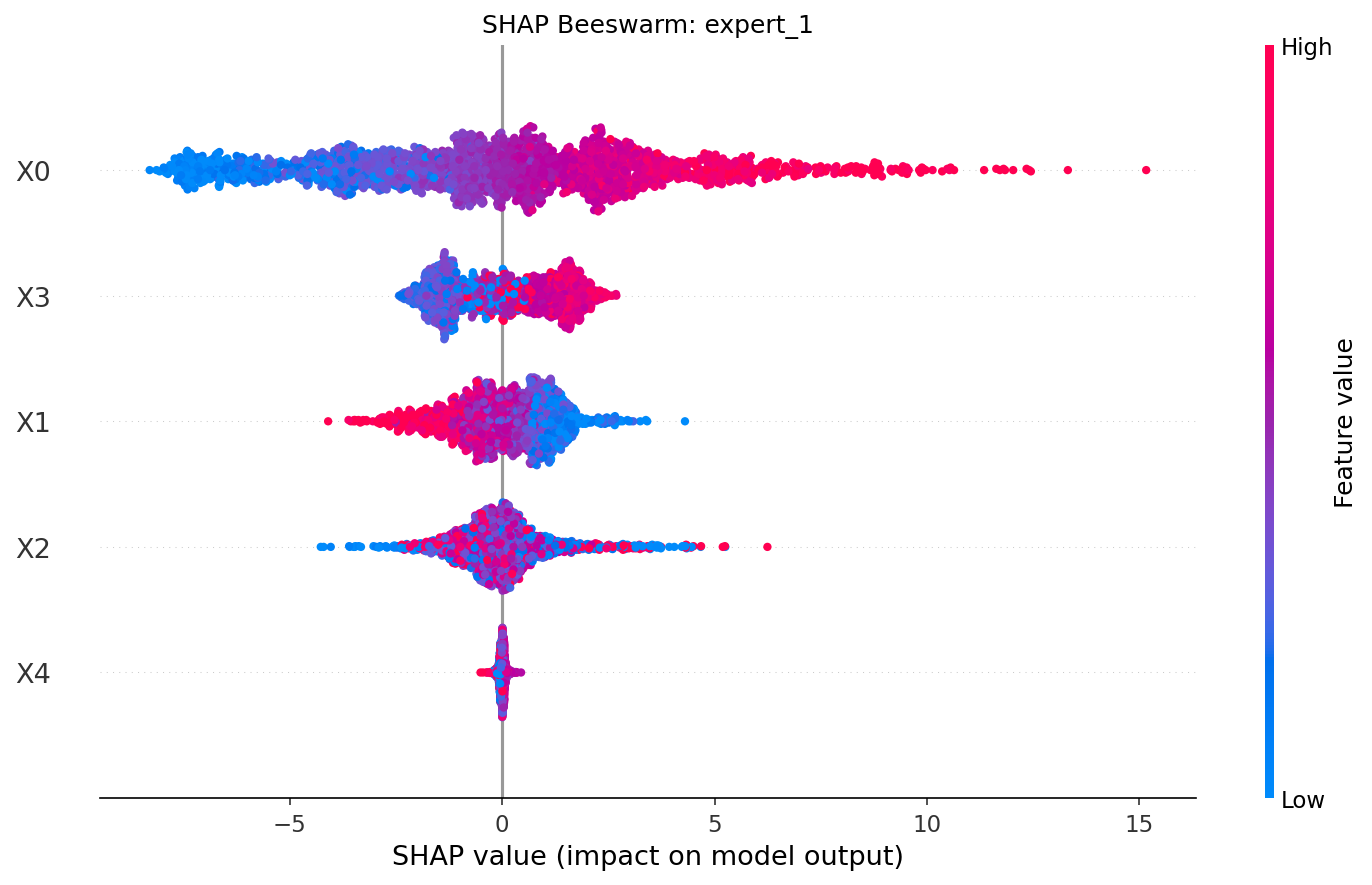
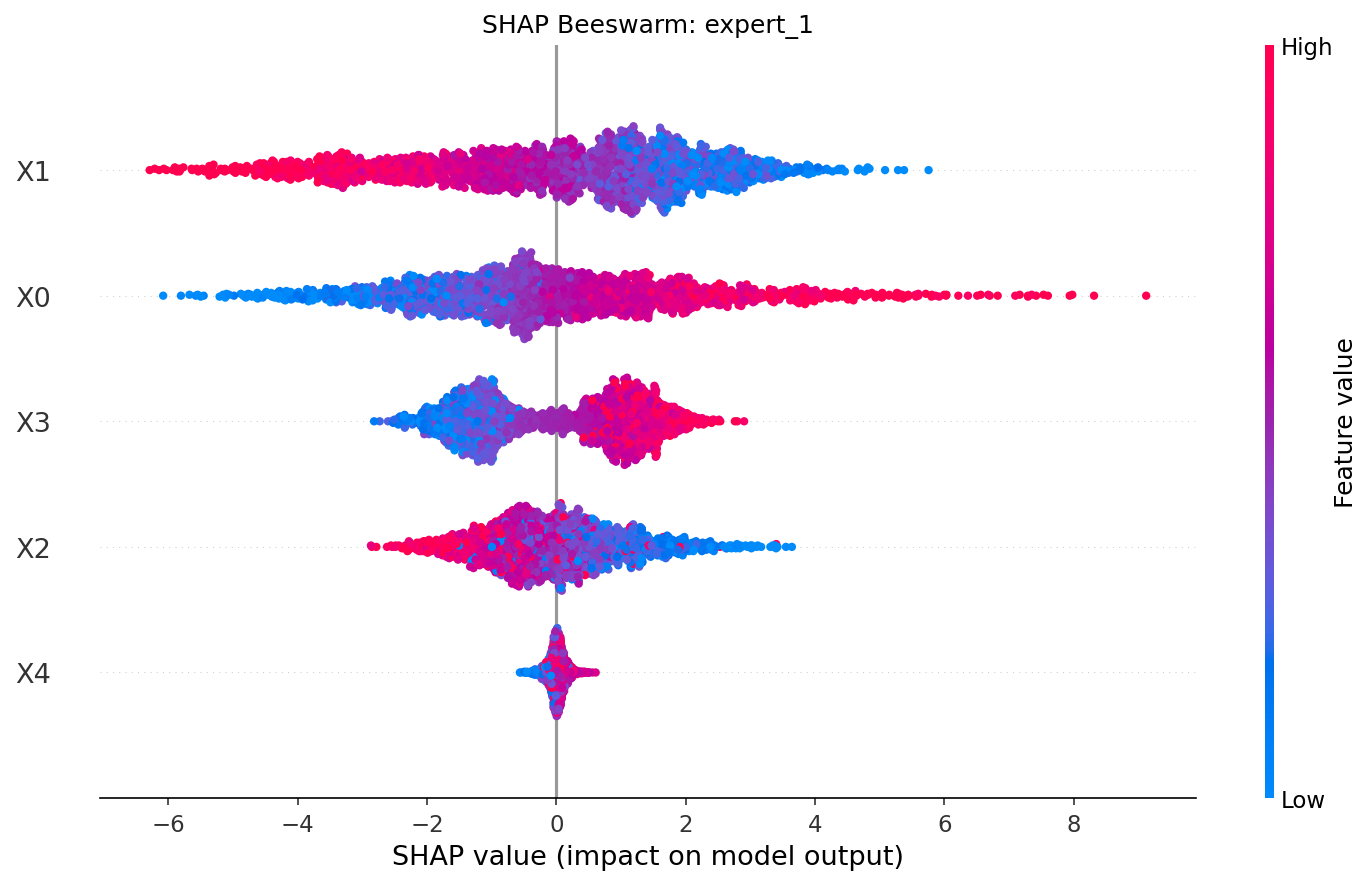
style: Change combined SHAP plot from bar chart to beeswarm dots

diff --git a/examples/benchmark.py b/examples/benchmark.py
@@ -758,10 +758,9 @@ def create_shap_visualization(
         plt.close("all")
         print(f"[SHAP] Saved: {output_path}")
 
-    # Create combined figure showing mean absolute SHAP values (bar chart)
-    # Note: shap.summary_plot doesn't work well with subplots, so we use bar charts
+    # Create combined figure showing SHAP beeswarm (dot) plots for each component
     n_components = 1 + num_experts  # gate + experts
-    fig, axes = plt.subplots(1, n_components, figsize=(5 * n_components, 5))
+    fig, axes = plt.subplots(1, n_components, figsize=(6 * n_components, 6))
 
     component_names = ["gate"] + [f"expert_{k}" for k in range(num_experts)]
 
@@ -769,22 +768,53 @@ def create_shap_visualization(
         shap_vals = shap_values_dict[name]
         mean_abs_shap = np.abs(shap_vals).mean(axis=0)
 
-        # Sort by importance
+        # Sort features by importance
         sorted_idx = np.argsort(mean_abs_shap)[::-1]
         sorted_names = [feature_names[i] for i in sorted_idx]
-        sorted_values = mean_abs_shap[sorted_idx]
 
         ax = axes[idx]
-        y_pos = np.arange(len(feature_names))
-        ax.barh(y_pos, sorted_values, color="steelblue", alpha=0.7)
-        ax.set_yticks(y_pos)
+
+        # Create beeswarm-style dot plot
+        n_features = len(feature_names)
+        for feat_rank, feat_idx in enumerate(sorted_idx):
+            shap_feature = shap_vals[:, feat_idx]
+            feature_values = X[:, feat_idx]
+
+            # Normalize feature values for coloring (0 to 1)
+            fv_min, fv_max = feature_values.min(), feature_values.max()
+            if fv_max - fv_min > 1e-10:
+                fv_norm = (feature_values - fv_min) / (fv_max - fv_min)
+            else:
+                fv_norm = np.zeros_like(feature_values)
+
+            # Add jitter to y-axis to create beeswarm effect
+            y_jitter = np.random.normal(0, 0.15, size=len(shap_feature))
+            y_pos = feat_rank + y_jitter
+
+            # Scatter plot with color representing feature value
+            scatter = ax.scatter(
+                shap_feature,
+                y_pos,
+                c=fv_norm,
+                cmap="coolwarm",
+                s=8,
+                alpha=0.6,
+                vmin=0,
+                vmax=1,
+            )
+
+        ax.set_yticks(range(n_features))
         ax.set_yticklabels(sorted_names)
         ax.invert_yaxis()
-        ax.set_xlabel("Mean |SHAP value|")
+        ax.set_xlabel("SHAP value")
         ax.set_title(f"{name}")
-        ax.grid(axis="x", alpha=0.3)
+        ax.axvline(x=0, color="gray", linestyle="-", linewidth=0.5)
 
-    plt.suptitle("MoE Component Feature Importance (Mean |SHAP|)", fontsize=14, fontweight="bold")
+    # Add colorbar to the last subplot
+    cbar = plt.colorbar(scatter, ax=axes[-1], shrink=0.6)
+    cbar.set_label("Feature value\n(low → high)")
+
+    plt.suptitle("MoE Component SHAP Beeswarm", fontsize=14, fontweight="bold")
     plt.tight_layout()
     combined_path = f"{output_dir}/moe_shap_beeswarm.png"
     plt.savefig(combined_path, dpi=150, bbox_inches="tight")
